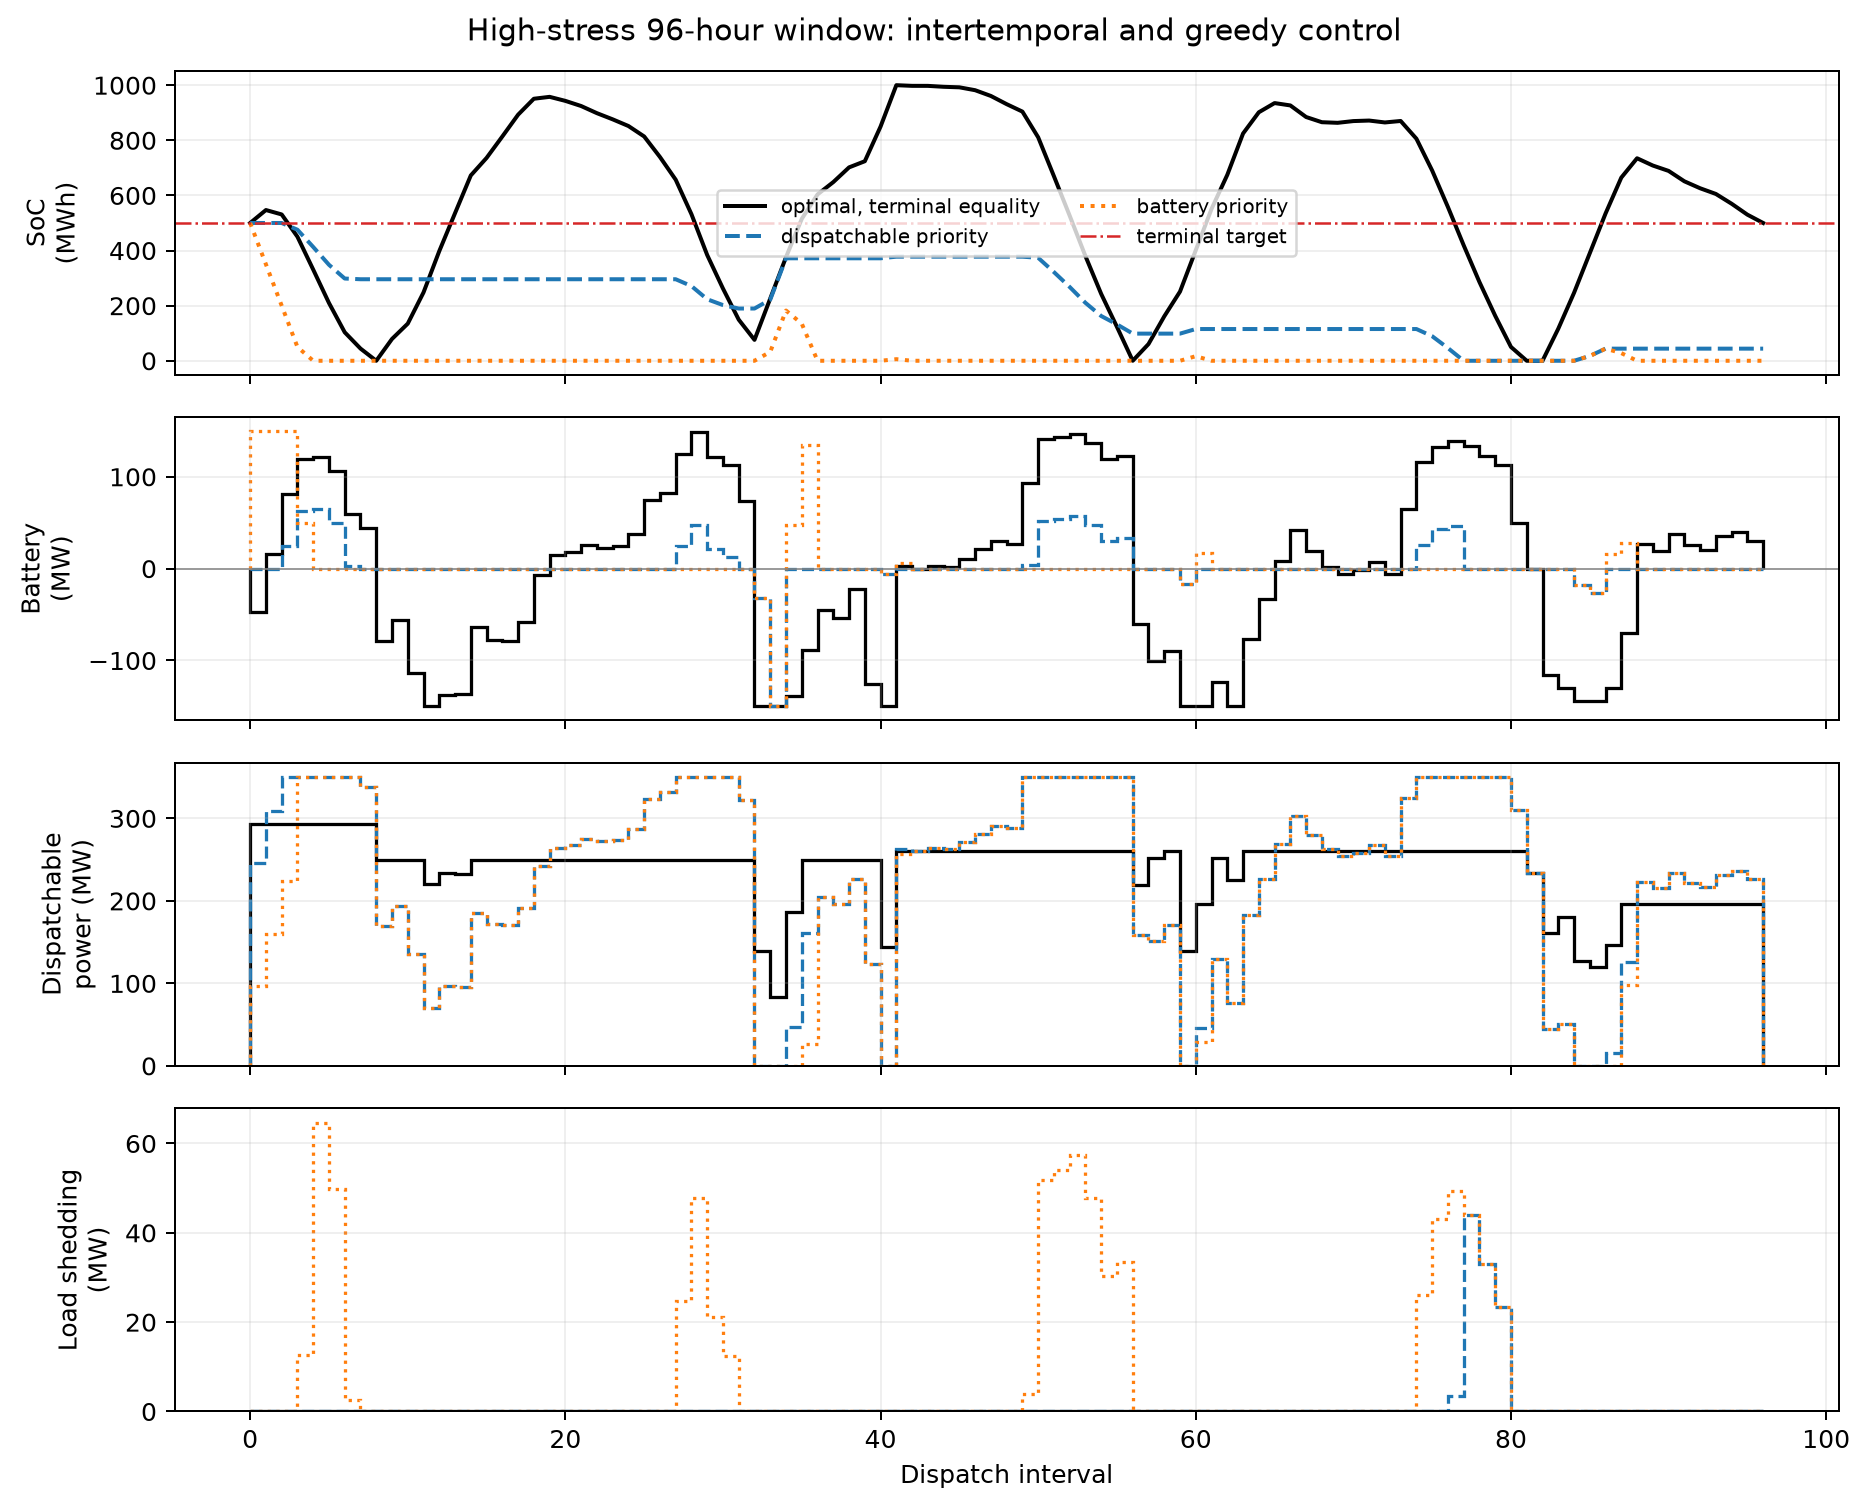
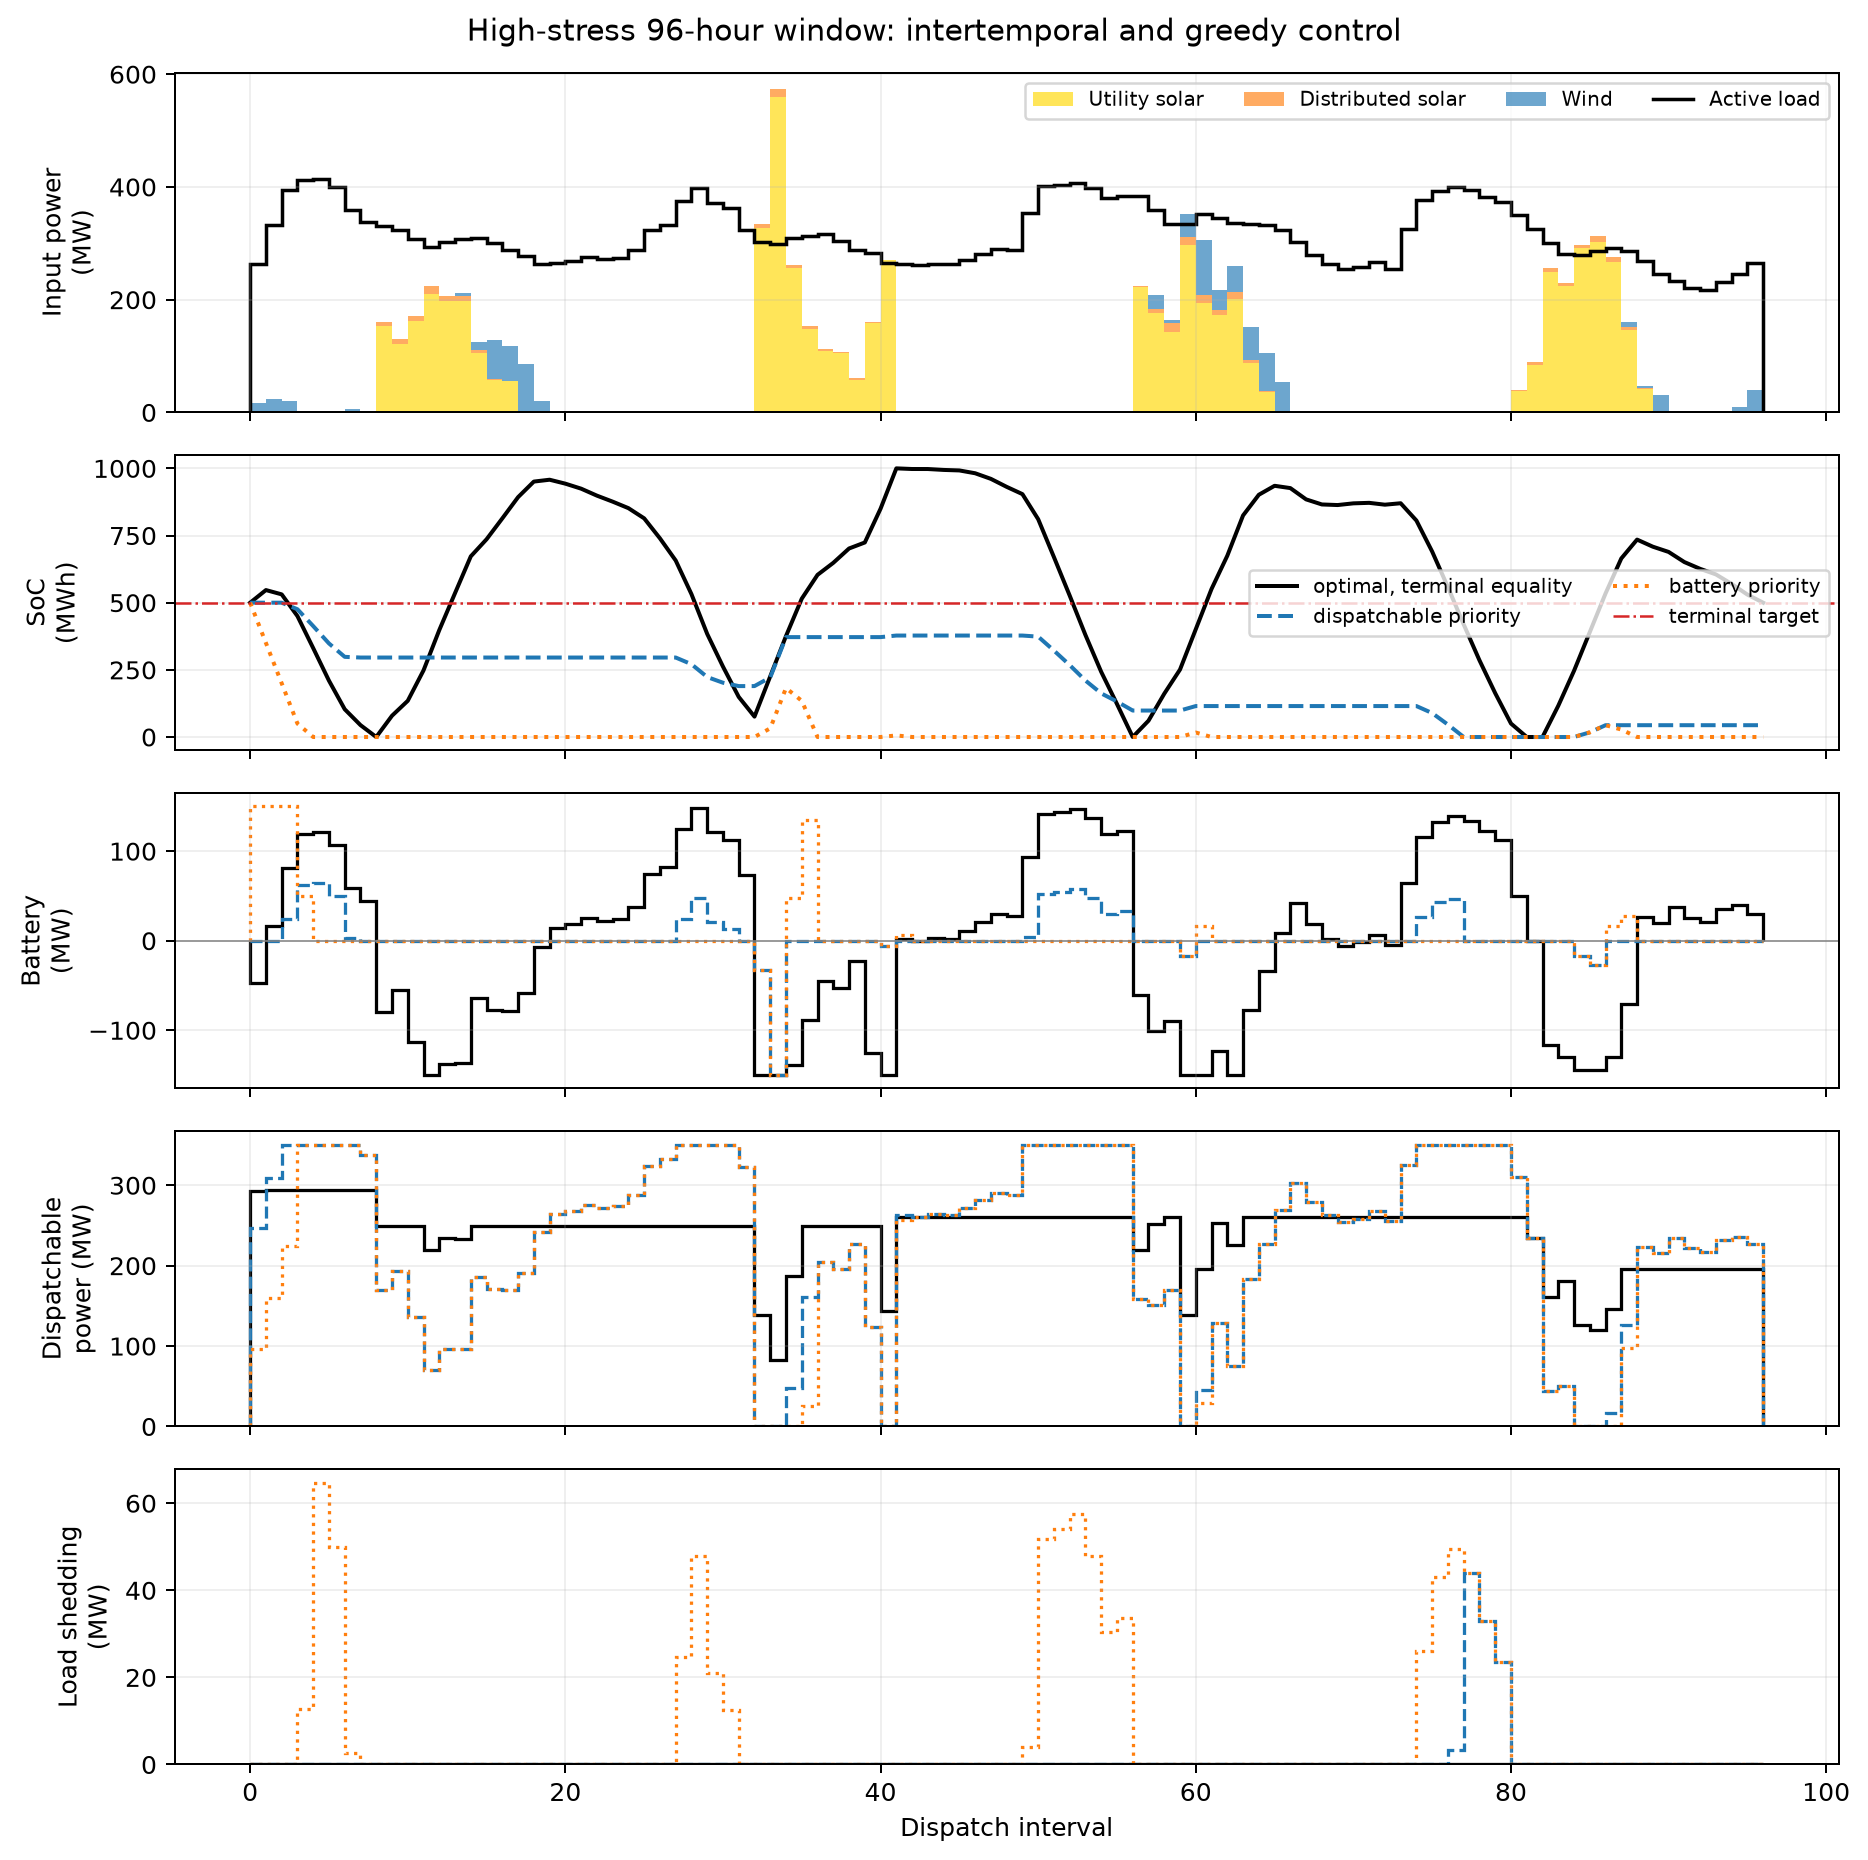
update README to highlight nondispatchable gen time series inputs

diff --git a/experiments/battery_terminal/generate_readme_figure.py b/experiments/battery_terminal/generate_readme_figure.py
@@ -3,6 +3,7 @@
 from pathlib import Path
 
 import matplotlib.pyplot as plt
+import numpy as np
 import pandas as pd
 
 from experiments.battery_terminal.greedy_controllers import (
@@ -76,10 +77,43 @@ def main() -> None:
         "battery priority": ("tab:orange", ":"),
     }
 
-    figure, axes = plt.subplots(4, 1, figsize=(10.5, 8.5), sharex=True)
+    figure, axes = plt.subplots(
+        5,
+        1,
+        figsize=(10.5, 10.5),
+        sharex=True,
+        height_ratios=(1.15, 1.0, 1.0, 1.0, 1.0),
+    )
+    plot_steps = np.arange(97)
+    resource_inputs = [
+        np.append(inputs[column].to_numpy(), inputs[column].iloc[-1])
+        for column in (
+            "utility_solar_available_mw",
+            "dist_solar_available_mw",
+            "wind_available_mw",
+        )
+    ]
+    axes[0].stackplot(
+        plot_steps,
+        *resource_inputs,
+        labels=("Utility solar", "Distributed solar", "Wind"),
+        colors=("gold", "tab:orange", "tab:blue"),
+        alpha=0.65,
+        step="post",
+    )
+    axes[0].stairs(
+        inputs["load_mw"],
+        plot_steps,
+        color="black",
+        linewidth=1.4,
+        label="Active load",
+    )
+    axes[0].set_ylabel("Input power\n(MW)")
+    axes[0].legend(ncols=4, fontsize=8)
+
     for name, values in controllers.items():
         color, linestyle = styles[name]
-        axes[0].plot(
+        axes[1].plot(
             range(97),
             values["soc"],
             color=color,
@@ -88,7 +122,7 @@ def main() -> None:
             label=name,
         )
         for axis, key in zip(
-            axes[1:],
+            axes[2:],
             ("battery", "dispatchable", "shedding"),
             strict=True,
         ):
@@ -101,21 +135,21 @@ def main() -> None:
                 label=name,
             )
 
-    axes[0].axhline(
+    axes[1].axhline(
         TERMINAL_TARGET_MWH,
         color="tab:red",
         linestyle="-.",
         linewidth=1.0,
         label="terminal target",
     )
-    axes[0].set_ylabel("SoC\n(MWh)")
-    axes[1].set_ylabel("Battery\n(MW)")
-    axes[2].set_ylabel("Dispatchable\npower (MW)")
-    axes[3].set(xlabel="Dispatch interval", ylabel="Load shedding\n(MW)")
-    axes[1].axhline(0.0, color="gray", linewidth=0.6)
+    axes[1].set_ylabel("SoC\n(MWh)")
+    axes[2].set_ylabel("Battery\n(MW)")
+    axes[3].set_ylabel("Dispatchable\npower (MW)")
+    axes[4].set(xlabel="Dispatch interval", ylabel="Load shedding\n(MW)")
+    axes[2].axhline(0.0, color="gray", linewidth=0.6)
     for axis in axes:
         axis.grid(alpha=0.2)
-    axes[0].legend(ncols=2, fontsize=8)
+    axes[1].legend(ncols=2, fontsize=8)
     figure.suptitle(
         "High-stress 96-hour window: intertemporal and greedy control"
     )

diff --git a/experiments/battery_terminal/reproduce.py b/experiments/battery_terminal/reproduce.py
@@ -64,6 +64,13 @@ def _scenario_input_table(policy_sweep) -> pd.DataFrame:
         retained_scenarios.add(scenario_name)
         load = run.scenario.df_P.sum(axis=1)
         renewable = run.scenario.df_nd.sum(axis=1)
+        utility_solar = run.scenario.df_nd.filter(
+            like="utility_solar_bus_"
+        ).sum(axis=1)
+        wind = run.scenario.df_nd.filter(like="wind_bus_").sum(axis=1)
+        dist_solar = run.scenario.df_nd.filter(
+            like="dist_solar_bus_"
+        ).sum(axis=1)
         frames.append(
             pd.DataFrame(
                 {
@@ -71,6 +78,9 @@ def _scenario_input_table(policy_sweep) -> pd.DataFrame:
                     "time": run.scenario.df_P.index.astype(str),
                     "step": range(len(run.scenario.df_P)),
                     "load_mw": load.to_numpy(),
+                    "utility_solar_available_mw": utility_solar.to_numpy(),
+                    "wind_available_mw": wind.to_numpy(),
+                    "dist_solar_available_mw": dist_solar.to_numpy(),
                     "renewable_available_mw": renewable.to_numpy(),
                     "net_load_mw": (load - renewable).to_numpy(),
                 }

diff --git a/tests/test_battery_terminal_studies.py b/tests/test_battery_terminal_studies.py
@@ -34,7 +34,11 @@ def test_scenario_input_table_retains_each_scenario_once():
     scenario = SimpleNamespace(
         df_P=pd.DataFrame({1: [10.0, 20.0], 2: [1.0, 2.0]}, index=index),
         df_nd=pd.DataFrame(
-            {"solar": [4.0, 5.0], "wind": [2.0, 3.0]},
+            {
+                "utility_solar_bus_1": [3.0, 4.0],
+                "dist_solar_bus_5": [1.0, 1.0],
+                "wind_bus_2": [2.0, 3.0],
+            },
             index=index,
         ),
     )
@@ -51,6 +55,9 @@ def test_scenario_input_table_retains_each_scenario_once():
     assert table["scenario"].tolist() == ["low", "low"]
     assert table["load_mw"].tolist() == [11.0, 22.0]
     assert table["renewable_available_mw"].tolist() == [6.0, 8.0]
+    assert table["utility_solar_available_mw"].tolist() == [3.0, 4.0]
+    assert table["dist_solar_available_mw"].tolist() == [1.0, 1.0]
+    assert table["wind_available_mw"].tolist() == [2.0, 3.0]
     assert table["net_load_mw"].tolist() == [5.0, 14.0]
 
 

diff --git a/README.md b/README.md
@@ -41,10 +41,13 @@ the controller can preserve energy for future scarcity.
 *High-stress 96-hour comparison with a 500 MWh terminal target. The
 experiment augments the 9-bus test case with nondispatchable generation and a
 single storage device, driven by time-series load and renewable-availability
-inputs. The network-constrained optimum anticipates future scarcity and
-enforces the terminal state; the causal greedy controllers are terminal-blind.
-Their lower dispatchable-energy totals are not improvements where they
-accompany unserved load.*
+inputs supplied through the native `df_P`, `df_Q`, and `df_nd` pandas
+interfaces. The top panel shows the active load together with the utility
+solar, distributed solar, and wind availability supplied to the model. The
+network-constrained optimum anticipates future scarcity and enforces the
+terminal state; the causal greedy controllers are terminal-blind. Their lower
+dispatchable-energy totals are not improvements where they accompany unserved
+load.*
 
 Because it is built on CVXPY, the problem structure is transparent and
 composable. Researchers can modify objectives, add contingency constraints,

diff --git a/experiments/battery_terminal/README.md b/experiments/battery_terminal/README.md
@@ -347,7 +347,9 @@ uv run --extra notebook marimo edit \
 ```
 
 After reproducing the retained CSV results, regenerate the curated
-high-stress, terminal-equality figure used by the top-level README with:
+high-stress, terminal-equality figure used by the top-level README with the
+prepared load, utility-solar, distributed-solar, and wind inputs shown above
+the controller traces:
 
 ```bash
 uv run python -m experiments.battery_terminal.generate_readme_figure
